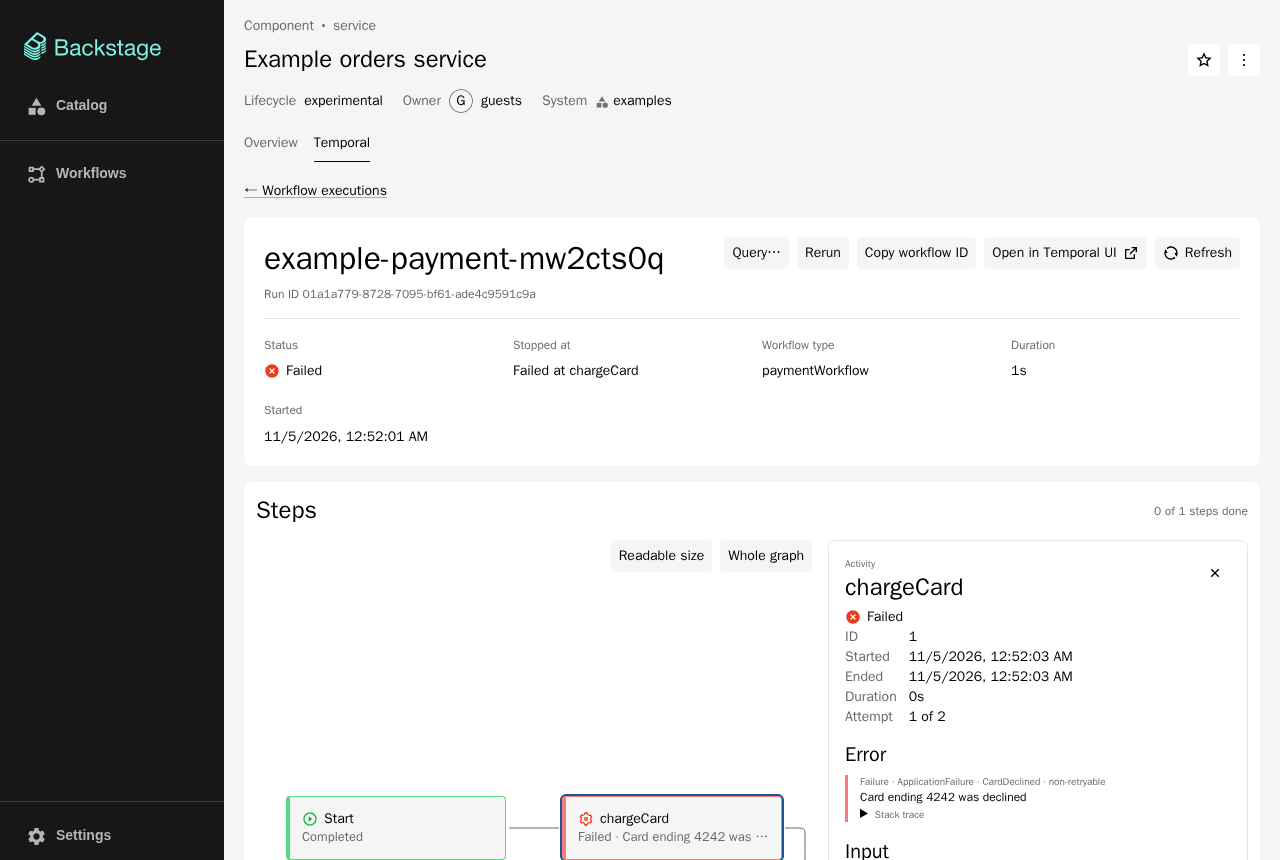
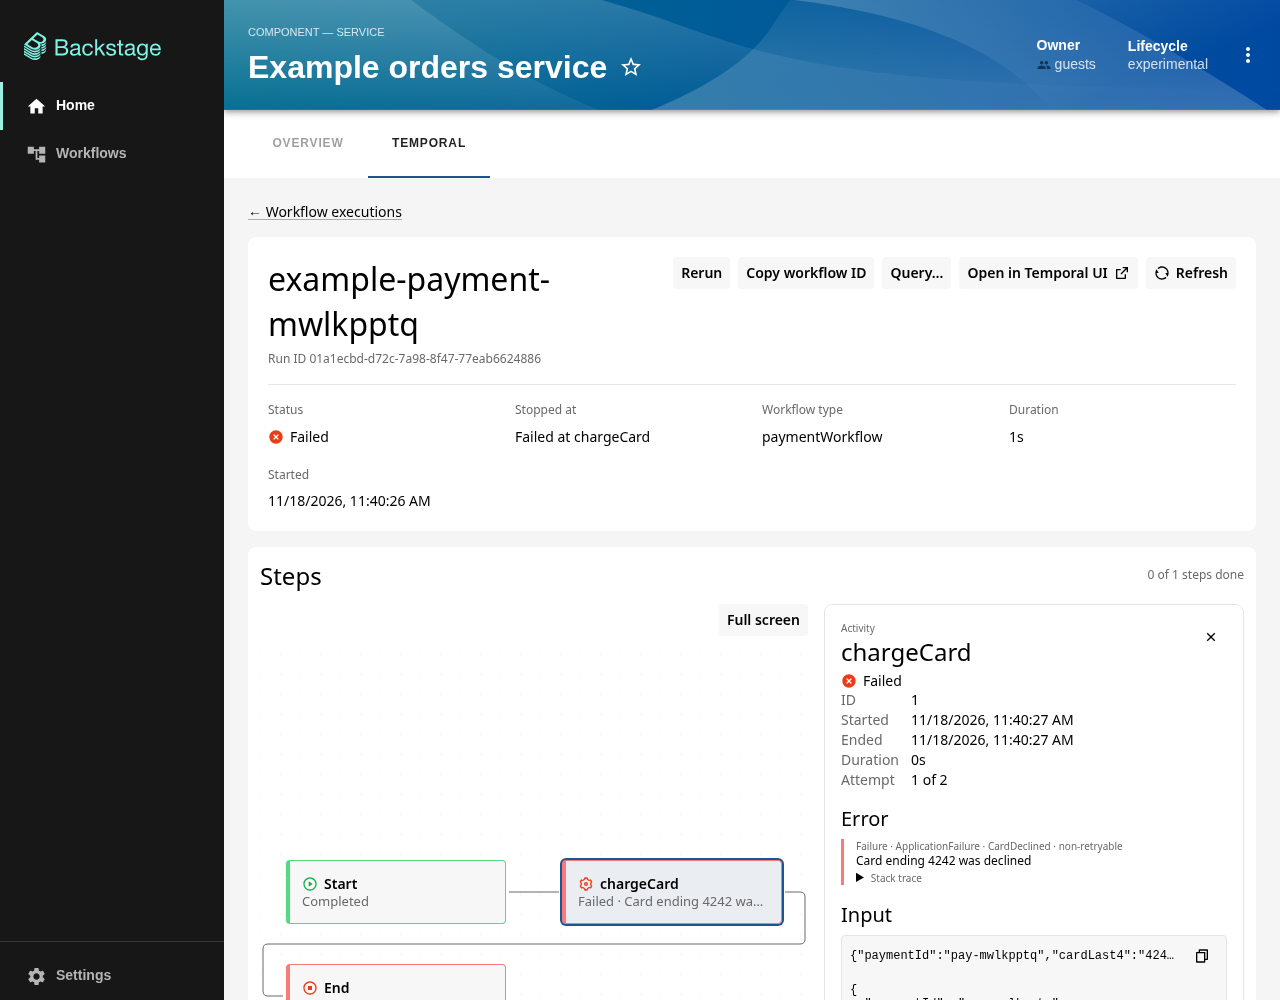
docs: refresh README screenshots for groups, model calls and storage
Add screenshots of Event Groups (stacked child groups, with a signal
drawn inside a loop round), the timeline with group rows, a Vercel AI
SDK model-call graph, the LLM panel, and an External Storage reference
(location, size, SHA-256, copy buttons and Open). Replace the existing
entity-tab, details-graph, controls and definition shots, which used
an older page chrome. Point the README table, the Large payloads
section, and both walkthroughs at the new images.

diff --git a/README.md b/README.md
@@ -82,11 +82,15 @@ workflow definition.
   added with a backend module (see
   [Model calls and tool calls](#model-calls-and-tool-calls)).
 
-| Workflows of an entity                                    | Step graph and step panel                                        |
-| --------------------------------------------------------- | ---------------------------------------------------------------- |
-| ![Workflow list of an entity](docs/images/entity-tab.png) | ![Step graph with the step panel](docs/images/details-graph.png) |
-| **Workflow controls**                                     | **Workflow definition (Zigflow)**                                |
-| ![Terminate dialog](docs/images/controls.png)             | ![YAML next to its graph](docs/images/definition.png)            |
+| Workflows of an entity                                                                                         | Step graph and step panel                                                                                          |
+| -------------------------------------------------------------------------------------------------------------- | ------------------------------------------------------------------------------------------------------------------ |
+| ![The Temporal tab of an entity: a table of workflow executions with status, progress, start time and duration.](docs/images/entity-tab.png) | ![The details page of a failed payment run: header, step graph and the chargeCard error in the step panel.](docs/images/details-graph.png) |
+| **Event Groups**                                                                                               | **Timeline**                                                                                                       |
+| ![A step graph with a loop of three stacked child groups; in round 2 a hint signal group with notify sits inside the round frame, under the main steps.](docs/images/event-groups.png) | ![The Timeline tab with group rows and the Expand groups and Collapse groups buttons.](docs/images/timeline.png) |
+| **Model calls**                                                                                                | **LLM panel**                                                                                                      |
+| ![A step graph of a Vercel AI SDK model-call run: fake-reasoner boxes with token counts, and tool calls (search, glossary, read_file) linked beside them.](docs/images/llm-graph.png) | ![The LLM panel of a model call: input, expanded thinking, output, tool calls and token usage.](docs/images/llm-panel.png) |
+| **Large payloads (External Storage)**                                                                          | **Workflow controls**                                                                                              |
+| ![The step panel for buildReport: output stored in External Storage, with size, s3:// location, SHA-256, copy buttons and an Open link. The graph of the run is on the left.](docs/images/external-storage.png) | ![The Terminate dialog on a running deployment workflow.](docs/images/controls.png) |
 
 ## Packages
 
@@ -831,6 +835,8 @@ bucket, key, size, sha256 } }`, not as a card;
 To get from the reference to the object, set a link template. `{bucket}` and
 `{key}` are replaced with the URL-encoded bucket and key of the reference,
 and the **Open** link appears next to the location:
+
+![The step panel showing an External Storage reference: Stored in External Storage, 1 MB, an s3://temporal-payloads/… location, a SHA-256, copy buttons and an Open link. The plugin does not show the stored content.](docs/images/external-storage.png)
 
 ```yaml
 temporal:

diff --git a/docs/zh-TW/walkthrough.md b/docs/zh-TW/walkthrough.md
@@ -141,6 +141,8 @@
 
    打開 `example-report-…`，選 `buildReport`、`summarizeReport` 和 `renderChart`。輸出會顯示 **Stored in External Storage**、大小、位置（`s3://temporal-payloads/…`）和 SHA-256，各有複製按鈕，沒有內容：外掛不讀這些物件。想在位置旁邊加上 **Open** 連結，就設定 `temporal.externalStorage.objectUrl`（見 README 的 [Large payloads](../../README.md#large-payloads-external-storage)），並重新啟動後端。做完請停掉 RustFS（設好變數後執行 `docker compose -f examples/docker-compose.rustfs.yaml down -v`）。
 
+   ![buildReport 的步驟面板：輸出顯示 Stored in External Storage、大小、s3:// 位置、SHA-256、複製按鈕和 Open 連結。外掛不顯示儲存的內容。](../images/external-storage.png)
+
 **為什麼：** 事件紀錄有大小上限，所以長流程要 Continue-As-New，大的 Payload 要放到外面。見入門裡的[長時間執行的流程](temporal-primer.md#長時間執行的流程)。
 
 ## 6. 用 YAML 寫的流程定義（選用）
@@ -161,9 +163,17 @@ YAML 範例在 [Zigflow](https://github.com/zigflow/zigflow) 裡執行，需要 
 
 1. **LLM 步驟。** 打開 `example-agent-…`。每次模型呼叫（`invokeModel`，標著模型、token 數和工具數）是一個方塊，工具掛在旁邊；其中一個工具（`read_file`）會重試。選一個模型呼叫：面板顯示輸入、thinking、輸出、tool call 和用量。`mixedAgentWorkflow` 混合了一般的 Activity、模型呼叫、並行的工具和一個子流程。
 
+![Vercel AI SDK 模型呼叫流程圖：fake-reasoner 方塊標著 token 數，旁邊連著工具呼叫（search、glossary、read_file）。](../images/llm-graph.png)
+
+![模型呼叫的 LLM 面板：輸入、展開的 thinking、輸出、工具呼叫和 token 用量。](../images/llm-panel.png)
+
 **為什麼：** Temporal 只看到一串 Activity。官方 AI 整合寫出已知的 payload 形狀，外掛的轉接器讀它。見 [LLM steps](../../README.md#model-calls-and-tool-calls)。
 
-用 Temporal Event Groups 分組步驟的流程（server 1.32 以上）則是一個群組一個箱子，不需要設定：流程圖把箱子巢狀排好，迴圈的每一輪收成一排小方塊（`×3`），**Event Groups** 分頁列出所有群組。範例 Worker 還沒有用到 Event Groups。見 [Event groups](../../README.md#event-groups)。
+用 Temporal Event Groups 分組步驟的流程（server 1.32 以上）則是一個群組一個箱子，不需要設定：流程圖把箱子巢狀排好，展開時迴圈的每一輪上下疊。某一輪收到的 signal 會畫在那一輪的框裡、主線步驟下方。**Event Groups** 分頁和時間軸會列出群組（時間軸有 **Expand groups**／**Collapse groups**）。範例 Worker 還沒有用到 Event Groups。見 [Event groups](../../README.md#event-groups)。
+
+![步驟流程圖：迴圈裡三個子群組上下疊；第 2 輪的框裡、主線步驟下方有 hint signal 群組和 notify。](../images/event-groups.png)
+
+![時間軸分頁：群組列，以及 Expand groups、Collapse groups 按鈕。](../images/timeline.png)
 
 ## 8. 從 Temporal 這一側看
 

diff --git a/docs/walkthrough.md b/docs/walkthrough.md
@@ -290,6 +290,8 @@ development backend allows everything; see
    (`docker compose -f examples/docker-compose.rustfs.yaml down -v`, with the
    variables set).
 
+   ![The step panel for buildReport: output stored in External Storage, with size, an s3:// location, a SHA-256, copy buttons and an Open link. The plugin does not show the stored content.](images/external-storage.png)
+
 **Why:** the event history has a size limit, so long workflows continue as new and
 big payloads go outside. See the primer's
 [long-running workflows](temporal-primer.md#long-running-workflows).
@@ -334,15 +336,25 @@ integration, so the plugin shows them without a setting.
    `mixedAgentWorkflow` mixes ordinary activities, model calls, parallel
    tools and a child workflow.
 
+![A step graph of a Vercel AI SDK model-call run: fake-reasoner boxes with token counts, and tool calls (search, glossary, read_file) linked beside them.](images/llm-graph.png)
+
+![The LLM panel of a model call: input, expanded thinking, output, tool calls and token usage.](images/llm-panel.png)
+
 **Why:** Temporal only sees a series of activities. The official AI
 integrations write a known payload shape; the plugin's adapters read it.
 See [LLM steps](../README.md#model-calls-and-tool-calls).
 
 Workflows that group their steps with Temporal Event Groups (server 1.32 or
 later) get a box per group, without a setting: the graph nests the
-boxes and collapses the rounds of a loop into a row (`×3`), and the
-**Event Groups** tab lists the groups. The example worker does not use Event
-Groups yet. See [Event groups](../README.md#event-groups).
+boxes and can stack the rounds of a loop when they are expanded. A signal
+received in a round is drawn inside that round's frame, under the main
+steps. The **Event Groups** tab and the timeline list the groups (the
+timeline has **Expand groups** and **Collapse groups**). The example worker
+does not use Event Groups yet. See [Event groups](../README.md#event-groups).
+
+![A step graph with a loop of three stacked child groups; in round 2 a hint signal group with notify sits inside the round frame, under the main steps.](images/event-groups.png)
+
+![The Timeline tab with group rows and the Expand groups and Collapse groups buttons.](images/timeline.png)
 
 ## 8. The Temporal side
 
